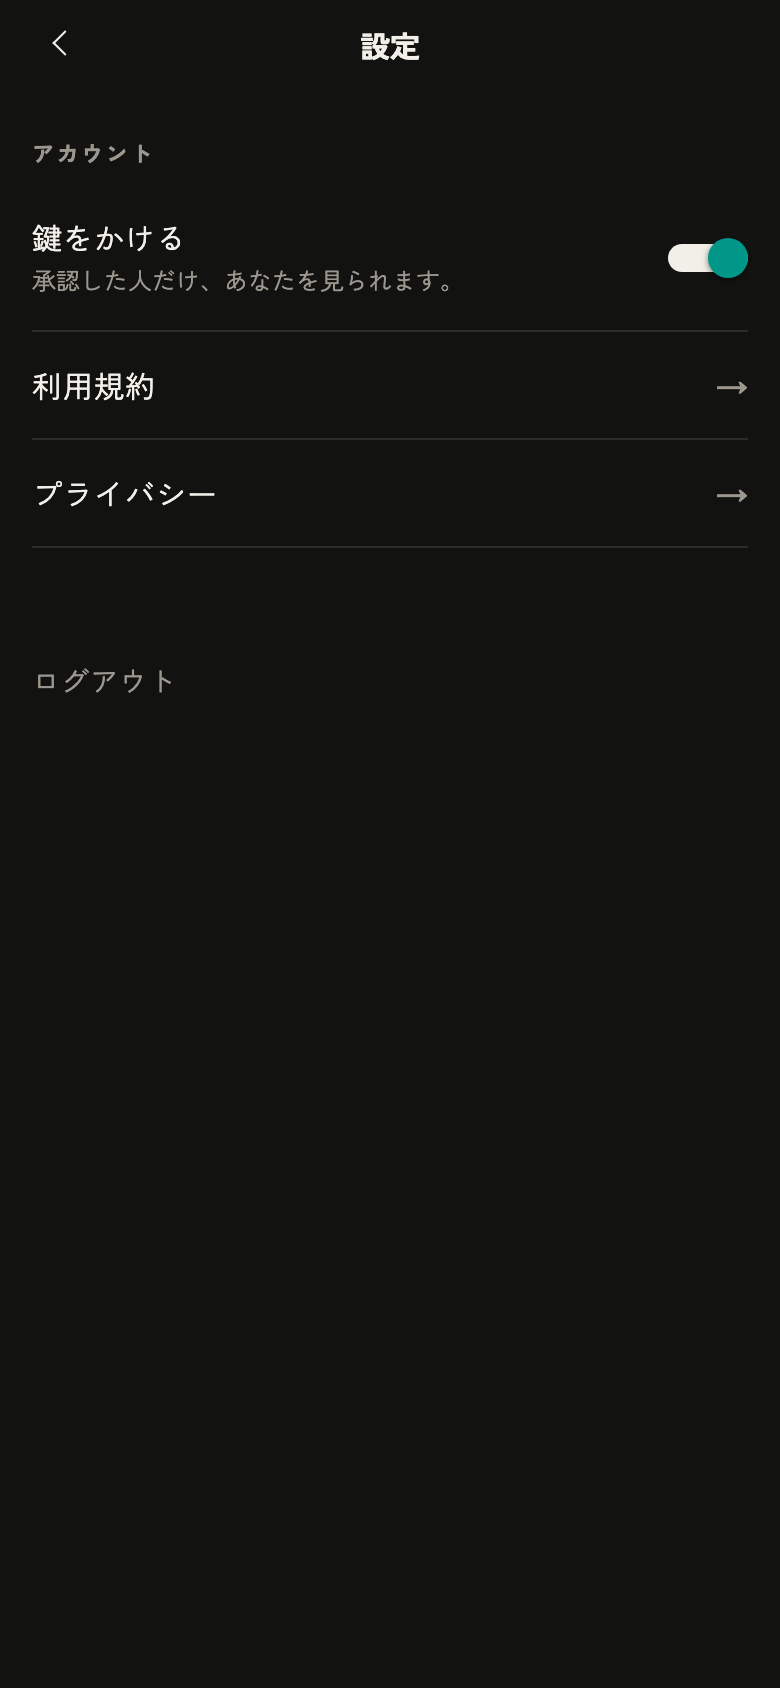
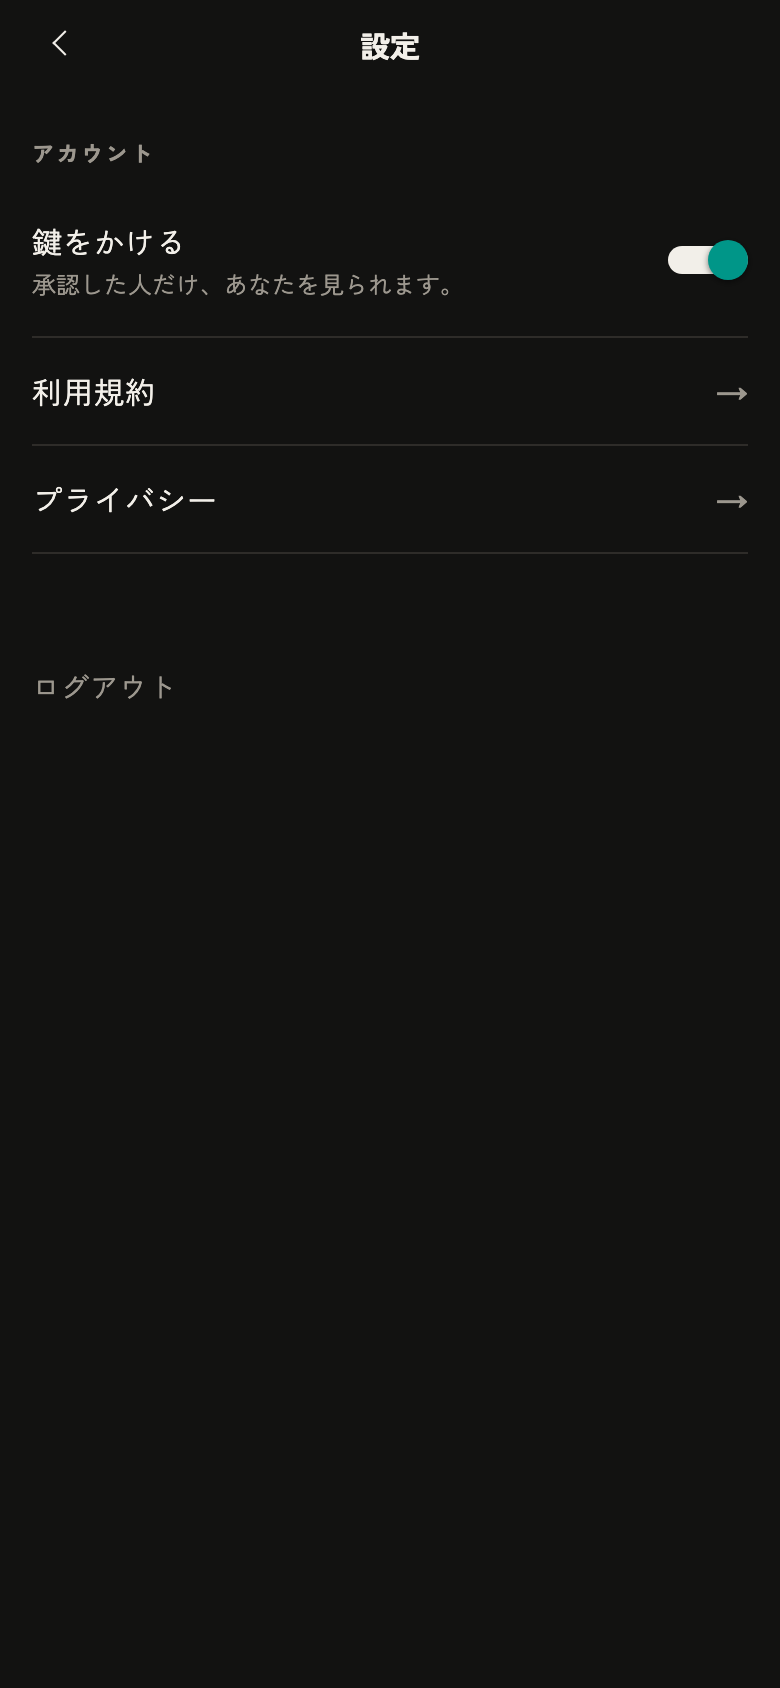
update odai shots (44px tap targets)

diff --git a/odai-shots/latest/index.html b/odai-shots/latest/index.html
@@ -29,7 +29,7 @@
 <body>
 <header>
   <h1>おだい 画面ギャラリー</h1>
-  <p>見本データで撮った画面です。人・名前・写真はすべて架空で、本物のデータは使っていません。更新: 2026-10-15 13:17 JST</p>
+  <p>見本データで撮った画面です。人・名前・写真はすべて架空で、本物のデータは使っていません。更新: 2026-10-15 18:25 JST</p>
   <p class="note">これはスマホ用アプリをパソコンのブラウザで表示したものです。実機とは次のところが違います：下のタブの文字が切れて見える／設定のスイッチの色／文字のにじみ・ぼかし・動き・フォントの細部。見た目の最終判断は実機で行ってください。</p>
   <nav><a href="#welcome">01 入口</a><a href="#profile-setup">02 プロフィール作成</a><a href="#today-before">03 きょう（撮る前・ぼかし）</a><a href="#today-after">04 きょう（撮った後・ならび）</a><a href="#today-nobody">05 きょう（誰も撮っていない）</a><a href="#today-zero">06 きょう（友達0人）</a><a href="#today-zero-posted">07 きょう（友達0人・撮った後）</a><a href="#viewer">08 大きく見る（判子つき）</a><a href="#search">09 さがす</a><a href="#me">10 わたし</a><a href="#profile-locked">11 友達のプロフィール（鍵あり・未フォロー）</a><a href="#profile-following">12 友達のプロフィール（フォロー中）</a><a href="#following">13 フォロー中の一覧</a><a href="#requests">14 承認待ち</a><a href="#settings">15 設定</a><a href="#invite">16 友達を呼ぶ</a><a href="#legal-terms">17 利用規約（仮）</a></nav>
 </header>
@@ -59,7 +59,7 @@
       <summary>出ている文字とボタン（明るい表示）</summary>
       <div class="lists">
         <div><h3>文字</h3><ul><li>1 / 2</li><li>あなたのこと</li><li>名前</li><li>@ユーザーID</li><li>誕生日</li><li>年</li><li>月</li><li>日</li><li>年齢の確認に使います。月日だけ、友達に見せることもできます（あとで変えられます）。</li><li>月日を友達に見せる</li><li>次へ</li><li>→</li></ul></div>
-        <div><h3>押せるところ（幅×高さ px）</h3><ul><li>(名前なし) <span>342×44</span></li><li class="small">例: taro_yamada <span>342×43（44px未満）</span></li><li class="small">1993 <span>195×43（44px未満）</span></li><li class="small">10 <span>195×43（44px未満）</span></li><li class="small">25 <span>195×43（44px未満）</span></li><li class="small">(名前なし) <span>40×20（44px未満）</span></li></ul></div>
+        <div><h3>押せるところ（幅×高さ px）</h3><ul><li>(名前なし) <span>342×44</span></li><li>例: taro_yamada <span>342×44</span></li><li>1993 <span>195×44</span></li><li>10 <span>195×44</span></li><li>25 <span>195×44</span></li><li>月日を友達に見せる <span>64×44</span></li></ul></div>
       </div>
     </details>
   </section>
@@ -149,7 +149,7 @@
       <summary>出ている文字とボタン（明るい表示）</summary>
       <div class="lists">
         <div><h3>文字</h3><ul><li>ハ</li><li>ハル</li><li>ミ</li><li>笑</li><li>ミナト</li><li>ナ</li><li>ナツキ</li><li>ユ</li><li>良</li><li>ユイ</li><li>驚</li><li>← 戻る</li></ul></div>
-        <div><h3>押せるところ（幅×高さ px）</h3><ul><li>(名前なし) <span>96×128</span></li><li>笑の判子 <span>48×48</span></li><li>良の判子 <span>48×48</span></li><li>驚の判子 <span>48×48</span></li><li class="small">← 戻る <span>61×27（44px未満）</span></li></ul></div>
+        <div><h3>押せるところ（幅×高さ px）</h3><ul><li>(名前なし) <span>96×128</span></li><li>笑の判子 <span>48×48</span></li><li>良の判子 <span>48×48</span></li><li>驚の判子 <span>48×48</span></li><li>← 戻る <span>61×44</span></li></ul></div>
       </div>
     </details>
   </section>
@@ -179,7 +179,7 @@
       <summary>出ている文字とボタン（明るい表示）</summary>
       <div class="lists">
         <div><h3>文字</h3><ul><li>@yui</li><li>ユ</li><li>ユイ</li><li>フォロワー</li><li>フォロー中</li><li>友達を呼ぶ</li><li>↗</li><li>フォローリクエスト</li><li>→</li><li>きょう</li><li>さがす</li><li>撮る</li><li>わたし</li></ul></div>
-        <div><h3>押せるところ（幅×高さ px）</h3><ul><li>設定 <span>44×44</span></li><li class="small">フォロワー <span>70×20（44px未満）</span></li><li class="small">フォロー中 <span>70×20（44px未満）</span></li><li>友達を呼ぶ ↗ <span>358×52</span></li><li>フォローリクエスト → <span>358×52</span></li><li class="small">きょう <span>98×43（44px未満）</span></li><li class="small">さがす <span>98×43（44px未満）</span></li><li class="small">撮る <span>98×43（44px未満）</span></li><li class="small">わたし <span>98×43（44px未満）</span></li></ul></div>
+        <div><h3>押せるところ（幅×高さ px）</h3><ul><li>設定 <span>44×44</span></li><li>フォロワー <span>78×44</span></li><li>フォロー中 <span>78×44</span></li><li>友達を呼ぶ ↗ <span>358×52</span></li><li>フォローリクエスト → <span>358×52</span></li><li class="small">きょう <span>98×43（44px未満）</span></li><li class="small">さがす <span>98×43（44px未満）</span></li><li class="small">撮る <span>98×43（44px未満）</span></li><li class="small">わたし <span>98×43（44px未満）</span></li></ul></div>
       </div>
     </details>
   </section>
@@ -209,7 +209,7 @@
       <summary>出ている文字とボタン（明るい表示）</summary>
       <div class="lists">
         <div><h3>文字</h3><ul><li>@haru</li><li>ハ</li><li>ハル</li><li>3月14日</li><li>フォロー中 ✓</li><li>おたがいにフォローしています</li><li>フォロワー</li><li>フォロー中</li><li>ユ</li><li>ユイ</li><li>@yui</li><li>ミ</li><li>ミナト</li><li>@minato</li></ul></div>
-        <div><h3>押せるところ（幅×高さ px）</h3><ul><li>← 戻る <span>44×44</span></li><li>フォロー中 ✓ <span>358×44</span></li><li class="small">フォロワー <span>179×29（44px未満）</span></li><li class="small">フォロー中 <span>179×29（44px未満）</span></li><li>ユ ユイ @yui <span>358×68</span></li><li>ミ ミナト @minato <span>358×68</span></li></ul></div>
+        <div><h3>押せるところ（幅×高さ px）</h3><ul><li>← 戻る <span>44×44</span></li><li>フォロー中 ✓ <span>358×44</span></li><li>フォロワー <span>179×44</span></li><li>フォロー中 <span>179×44</span></li><li>ユ ユイ @yui <span>358×68</span></li><li>ミ ミナト @minato <span>358×68</span></li></ul></div>
       </div>
     </details>
   </section>
@@ -254,7 +254,7 @@
       <summary>出ている文字とボタン（明るい表示）</summary>
       <div class="lists">
         <div><h3>文字</h3><ul><li>設定</li><li>アカウント</li><li>鍵をかける</li><li>承認した人だけ、あなたを見られます。</li><li>利用規約</li><li>→</li><li>プライバシー</li><li>ログアウト</li></ul></div>
-        <div><h3>押せるところ（幅×高さ px）</h3><ul><li>← 戻る <span>44×44</span></li><li class="small">(名前なし) <span>40×20（44px未満）</span></li><li>利用規約 → <span>358×54</span></li><li>プライバシー → <span>358×54</span></li><li>ログアウト <span>358×52</span></li></ul></div>
+        <div><h3>押せるところ（幅×高さ px）</h3><ul><li>← 戻る <span>44×44</span></li><li>鍵をかける <span>64×44</span></li><li>利用規約 → <span>358×54</span></li><li>プライバシー → <span>358×54</span></li><li>ログアウト <span>358×52</span></li></ul></div>
       </div>
     </details>
   </section>
@@ -269,7 +269,7 @@
       <summary>出ている文字とボタン（明るい表示）</summary>
       <div class="lists">
         <div><h3>文字</h3><ul><li>友達を、3人。</li><li>3人そろうと、みんなの写真を並べて見られます。</li><li>このリンクから入った人とは、すぐ友達になれます。</li><li>LINEで送る</li><li>ほかの方法で送る</li><li>戻る</li></ul></div>
-        <div><h3>押せるところ（幅×高さ px）</h3><ul><li>LINEで送る <span>342×64</span></li><li>ほかの方法で送る <span>342×56</span></li><li class="small">戻る <span>390×35（44px未満）</span></li></ul></div>
+        <div><h3>押せるところ（幅×高さ px）</h3><ul><li>LINEで送る <span>342×64</span></li><li>ほかの方法で送る <span>342×56</span></li><li>戻る <span>390×44</span></li></ul></div>
       </div>
     </details>
   </section>
